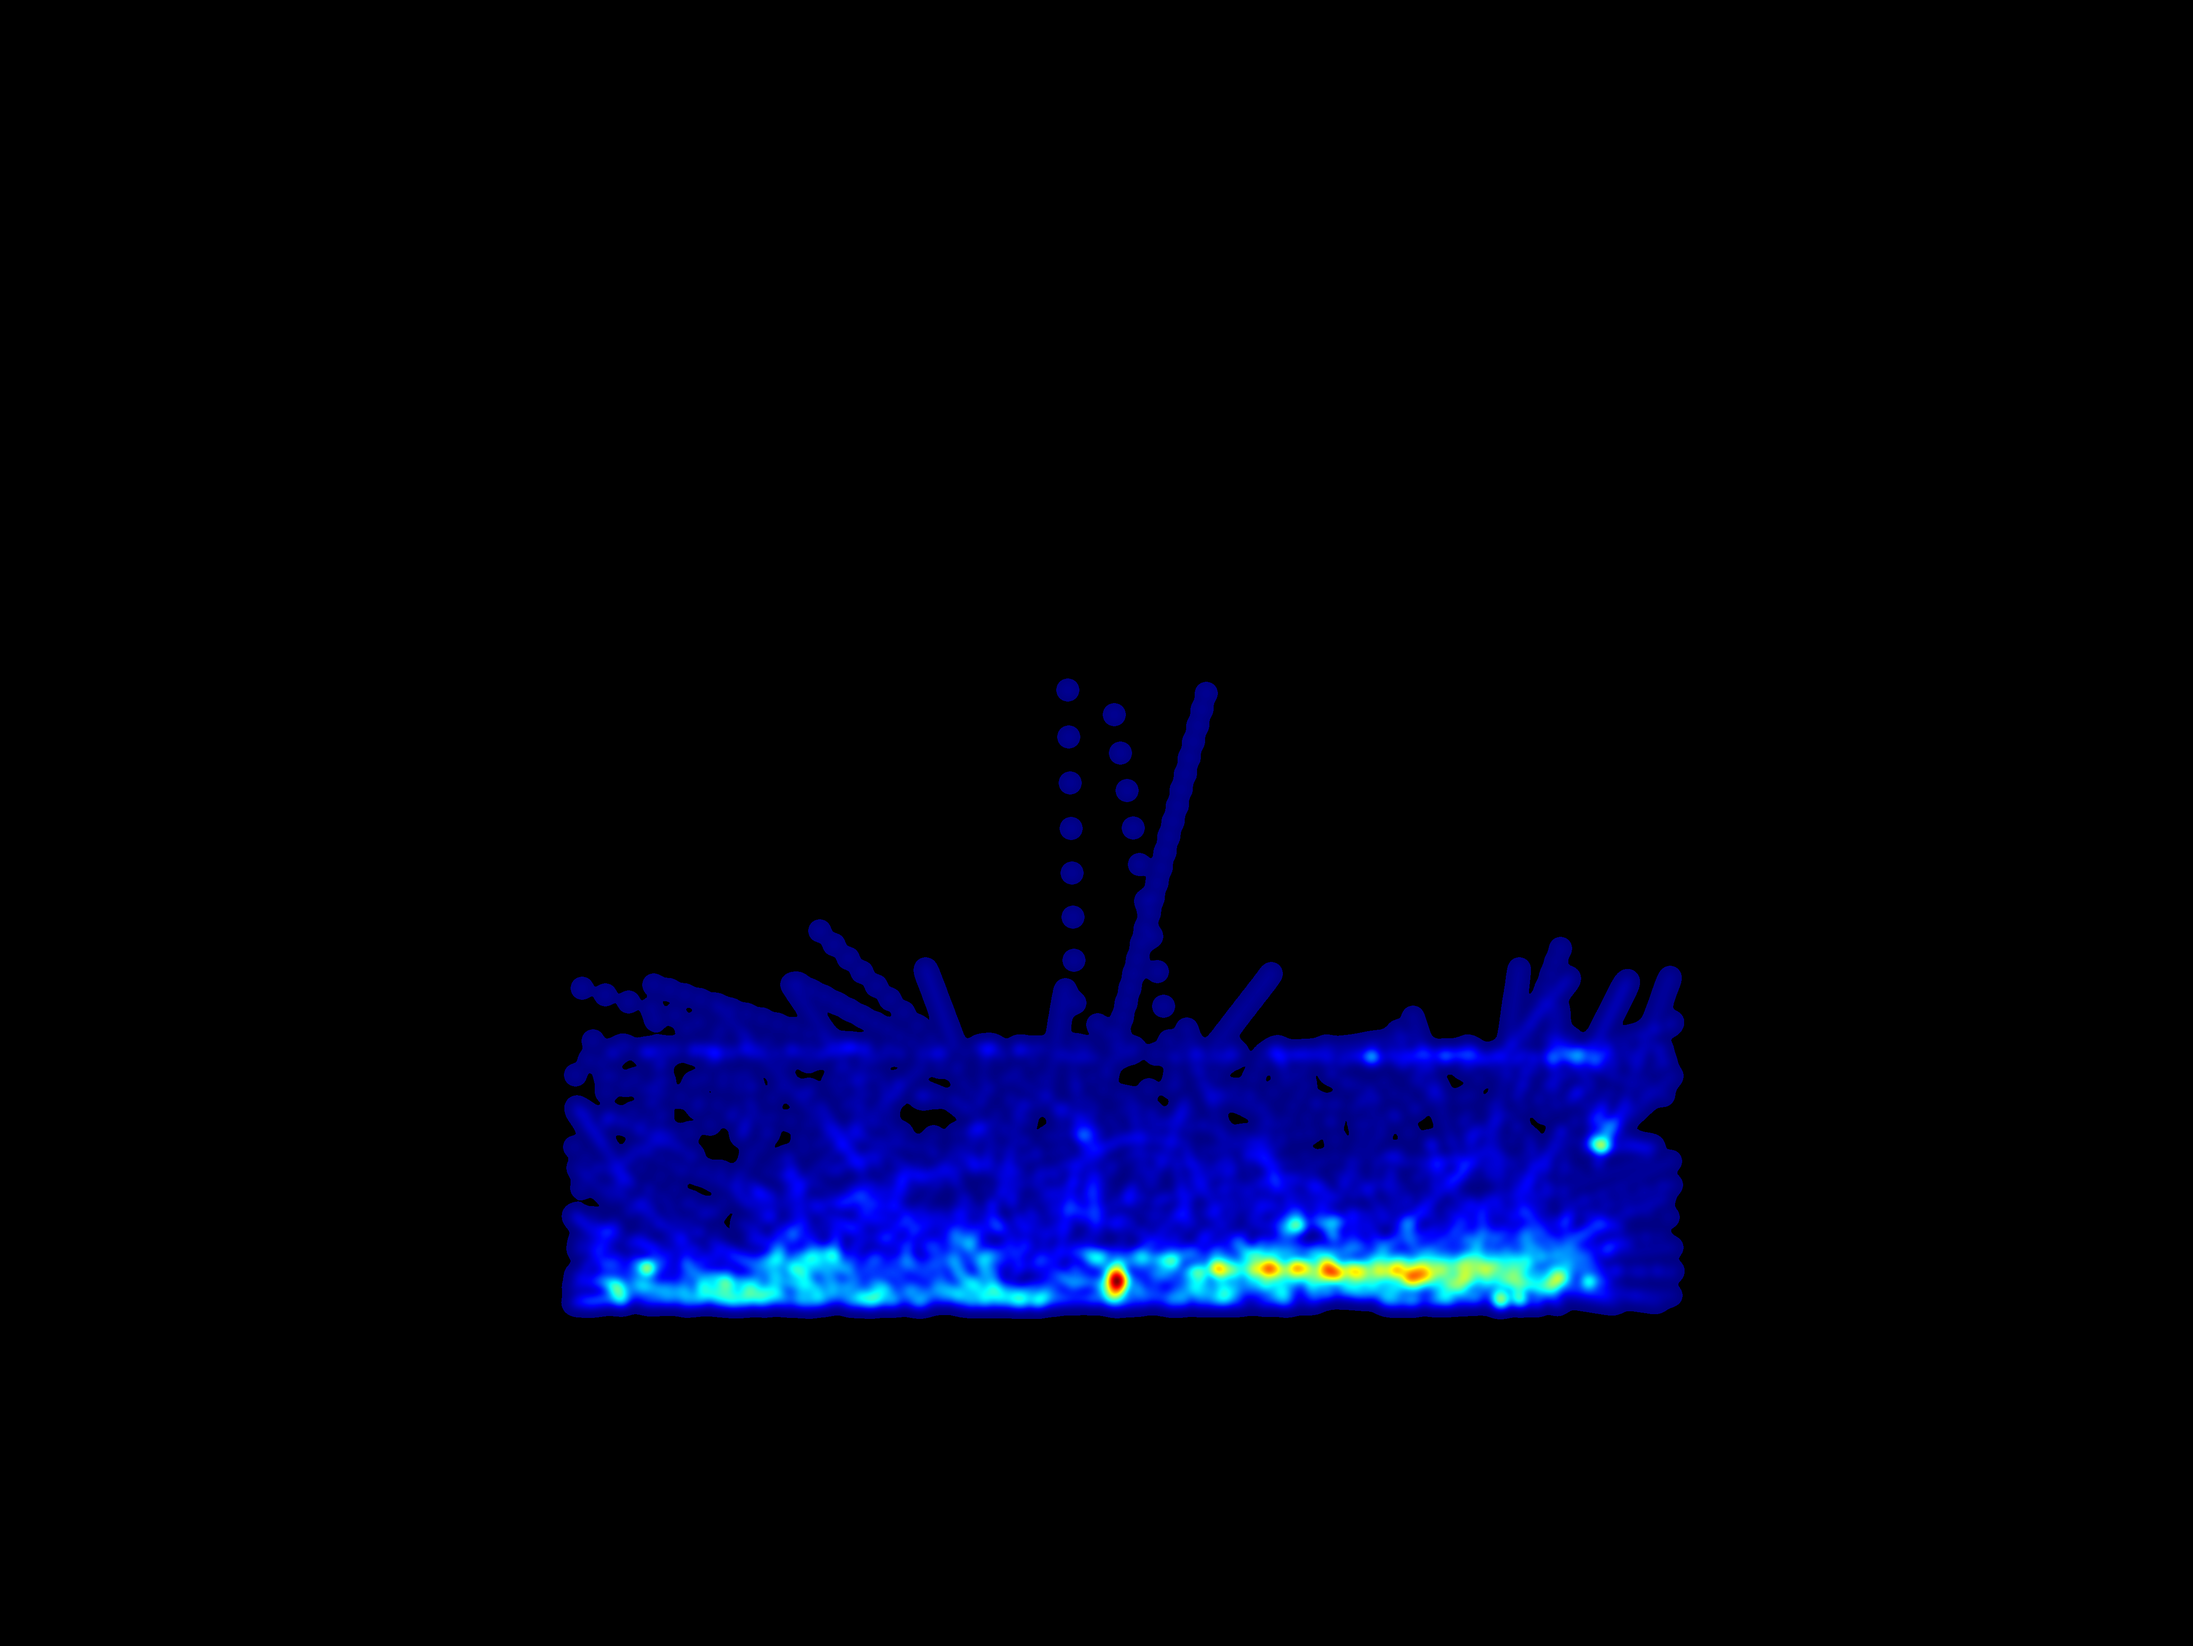
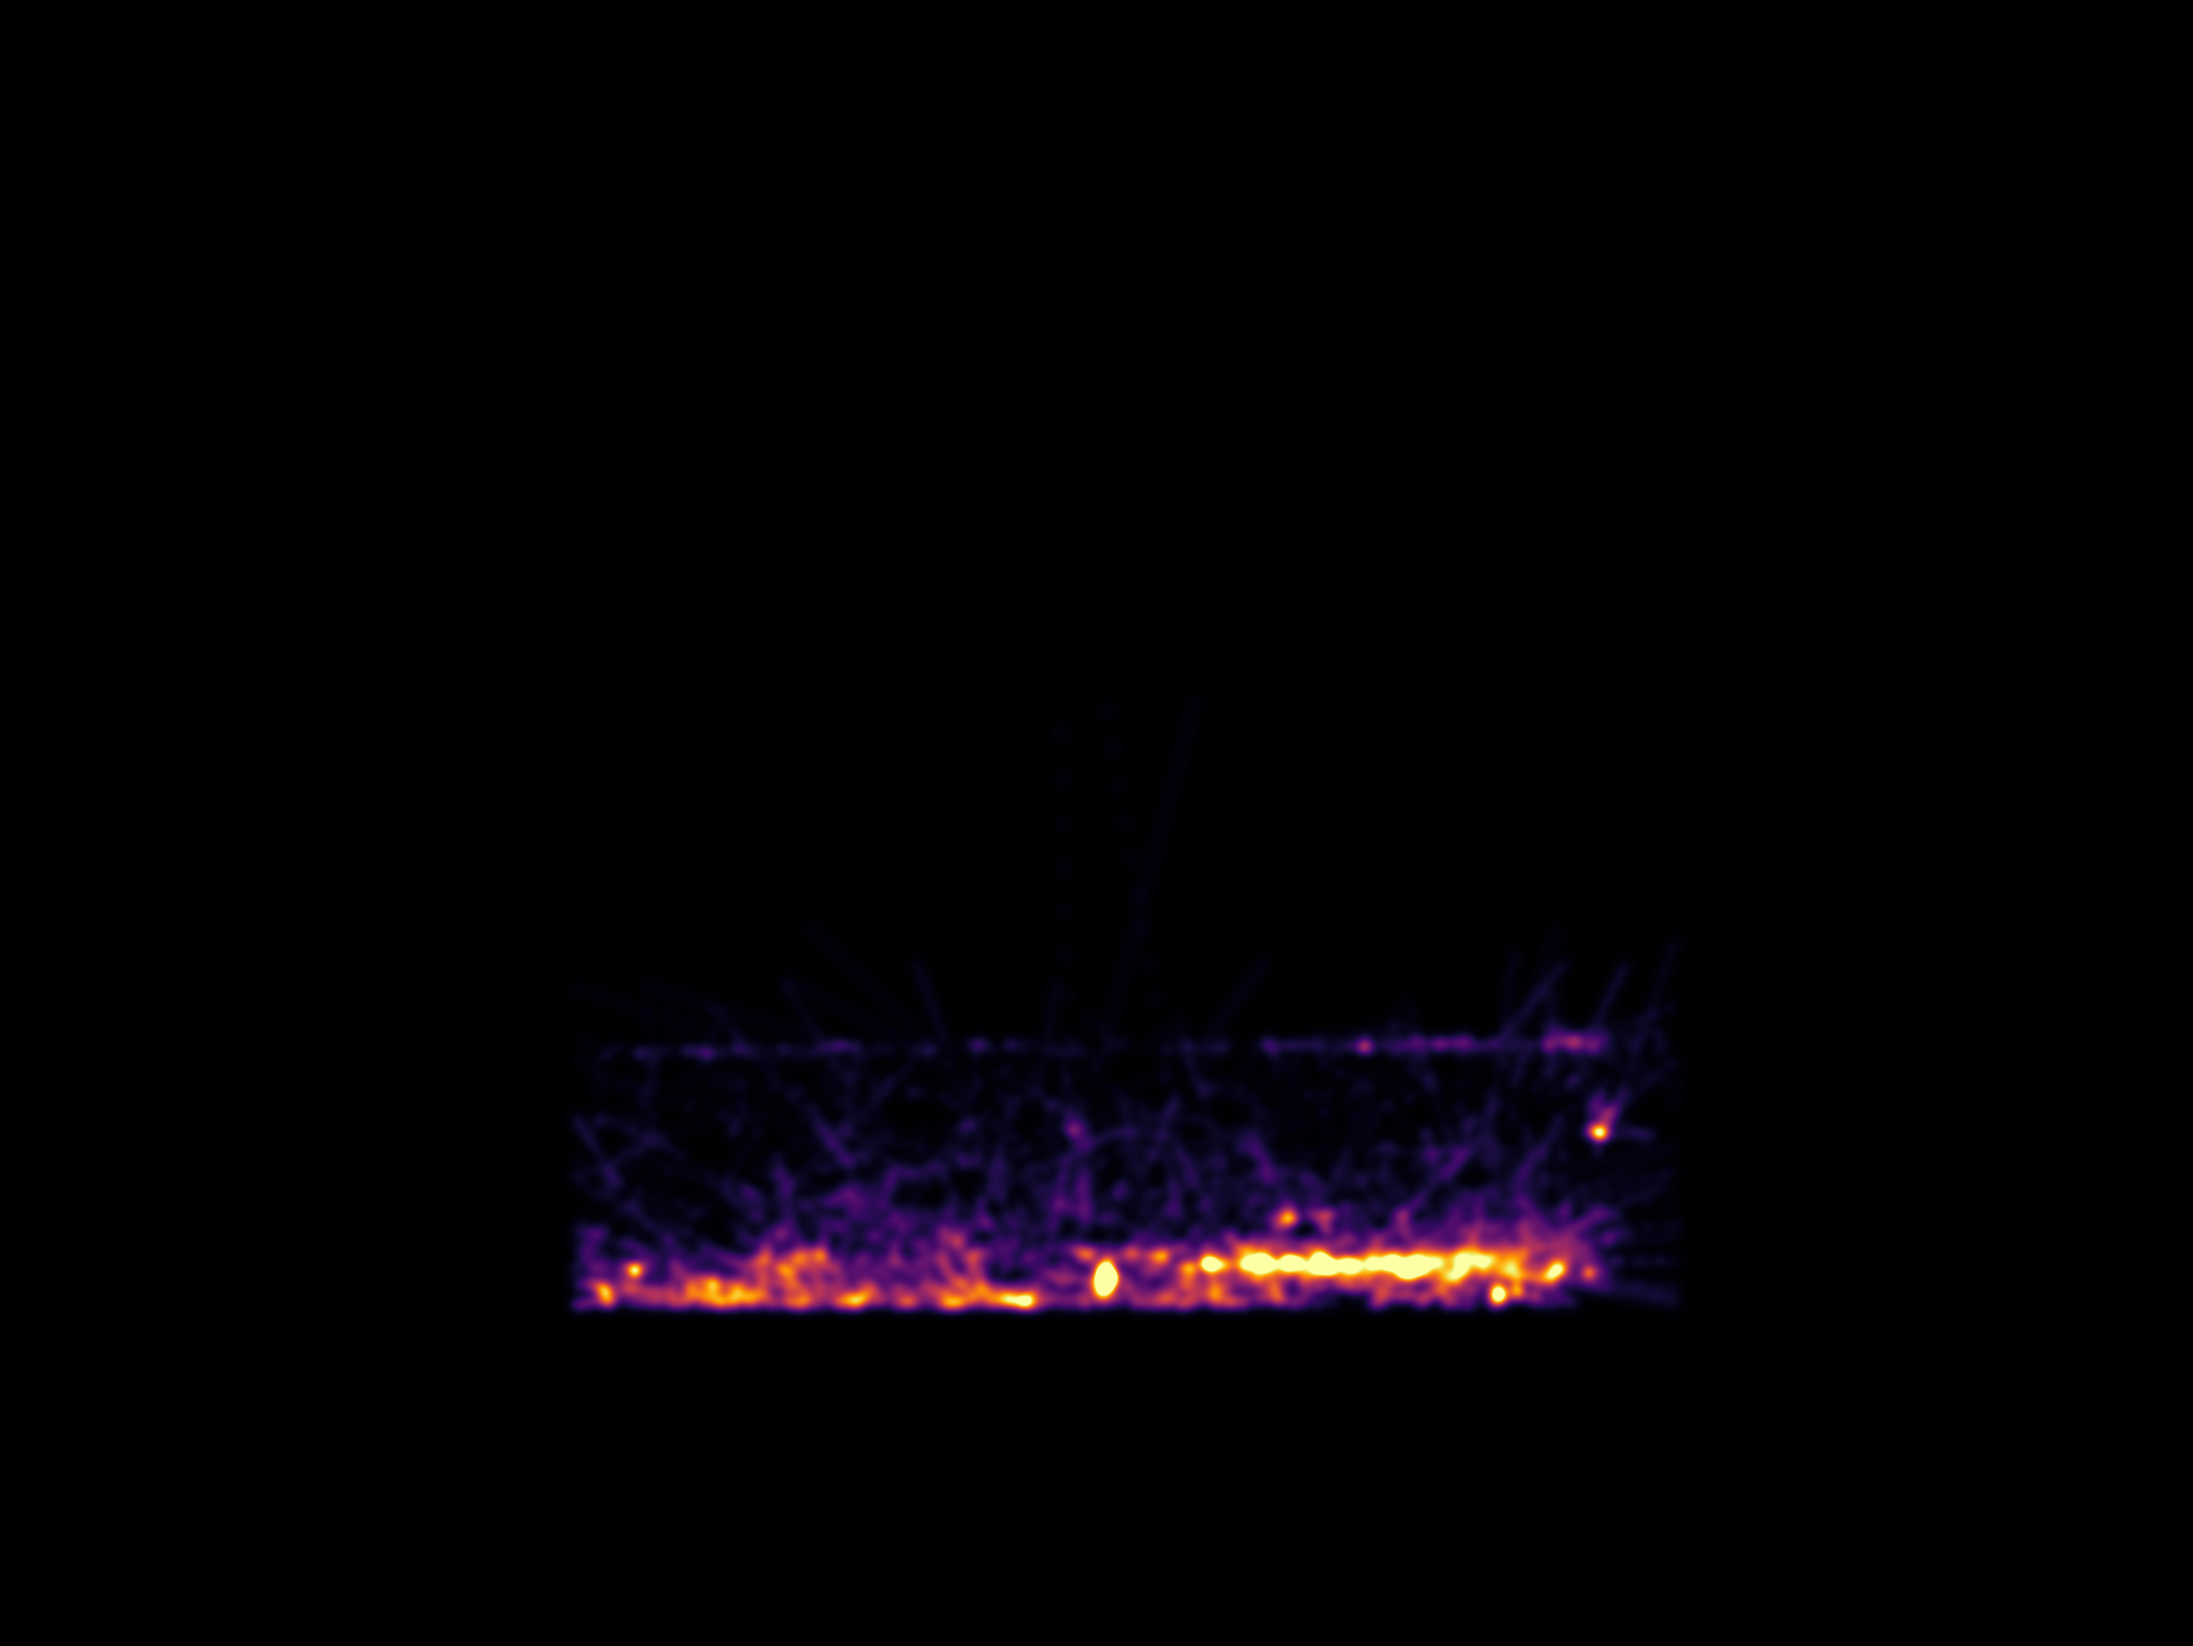
color

Changed region(s): [[0.2491, 0.4044, 0.7785, 0.8088]]

diff --git a/plan_heatmap.py b/plan_heatmap.py
@@ -65,23 +65,31 @@ def _accumulate_heatmap(points_plan: np.ndarray, H: int, W: int):
     xs = np.clip(np.round(points_plan[:, 0]).astype(np.int32), 0, W - 1)
     ys = np.clip(np.round(points_plan[:, 1]).astype(np.int32), 0, H - 1)
     for x, y in zip(xs, ys):
-        # Decrease the accumulation value to prevent oversaturation in one spot
-        heat[y, x] += 25.0
+        # Revert accumulation value to a standard value
+        heat[y, x] += 1.0
     return heat
 
 def _smooth_heatmap(heat: np.ndarray, kernel_size: int = 35, sigma: float = 0):
     # Ensure kernel is odd
     kernel_size = kernel_size if kernel_size % 2 == 1 else kernel_size + 1
     smoothed = cv2.GaussianBlur(heat, (kernel_size, kernel_size), sigma)
-    # Apply a logarithmic scale to compress the range of high values
-    # and bring out more detail in the lower-intensity areas.
-    # Add 1 to avoid log(0) errors.
-    return np.log1p(smoothed)
+    # Remove the logarithmic scaling which was making the heatmap too dim.
+    return smoothed
 
 
 def _colorize_and_overlay(plan_bgr: np.ndarray, heat: np.ndarray, alpha: float = 0.6, colormap=cv2.COLORMAP_JET):
-    # Normalize the smoothed float heatmap to the 0-255 range
-    heat_u8 = cv2.normalize(heat, None, 0, 255, cv2.NORM_MINMAX, cv2.CV_8U)
+    # --- THIS IS THE FIX ---
+    # Clip extreme values to the 99th percentile. This prevents a few
+    # very bright spots from washing out the colors in the rest of the heatmap.
+    p99 = np.percentile(heat[heat > 0], 99) if np.any(heat > 0) else 0
+    if p99 > 0:
+        heat_clipped = np.clip(heat, 0, p99)
+    else:
+        heat_clipped = heat
+
+    # Normalize the clipped heatmap to the 0-255 range
+    heat_u8 = cv2.normalize(heat_clipped, None, 0, 255, cv2.NORM_MINMAX, cv2.CV_8U)
+    # --- END FIX ---
     
     # Apply colormap to the normalized 8-bit heatmap
     color_bgr = cv2.applyColorMap(heat_u8, colormap)
@@ -167,9 +175,9 @@ def generate_plan_heatmap_from_csv(
     heat_smooth = _smooth_heatmap(heat_raw, kernel_size, sigma)
 
     # 4. Colorize and overlay onto the plan
-    # --- THIS IS THE FIX for the color ---
-    # Change the colormap back to JET, which provides the Red -> Yellow -> Blue scale.
-    result = _colorize_and_overlay(plan_bgr, heat_smooth, alpha, colormap=cv2.COLORMAP_JET)
+    # --- THIS IS THE FIX ---
+    # Increase the alpha to make the heatmap more opaque and vibrant.
+    result = _colorize_and_overlay(plan_bgr, heat_smooth, alpha=0.75, colormap=cv2.COLORMAP_INFERNO)
     # --- END FIX ---
 
     # 5. Save and return
